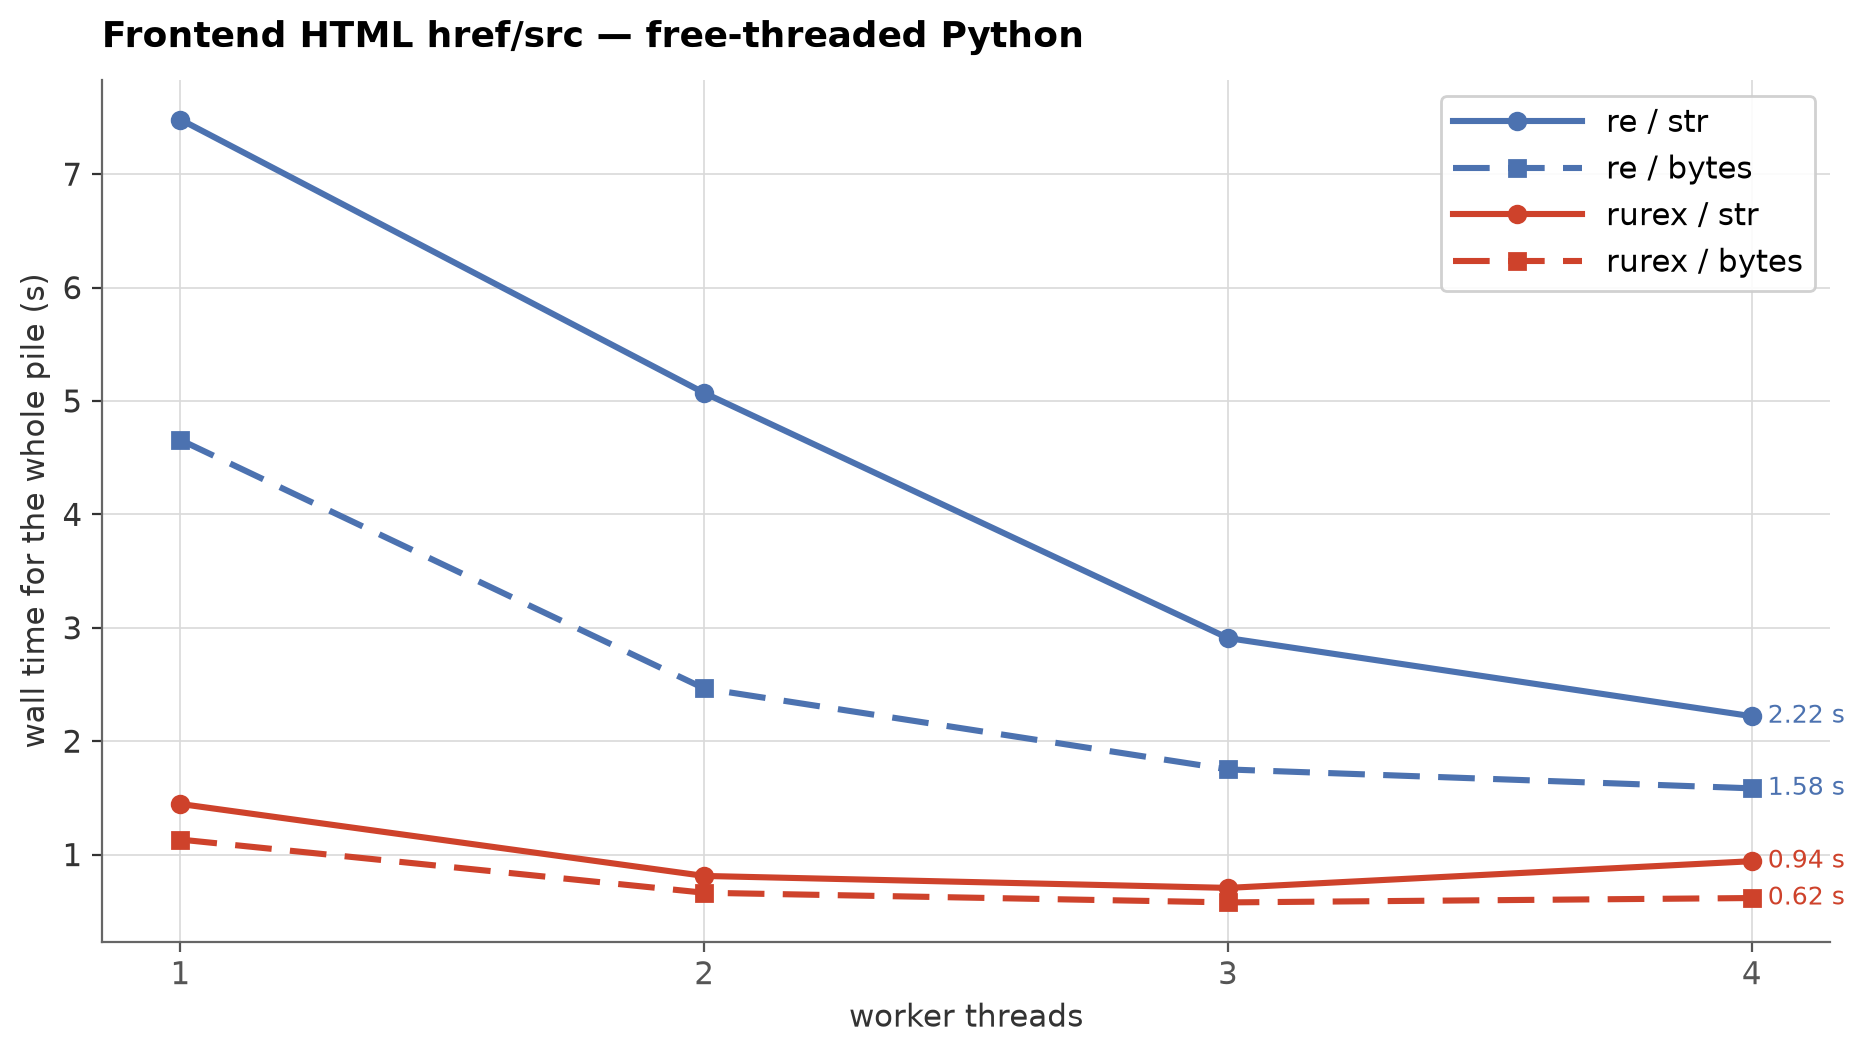
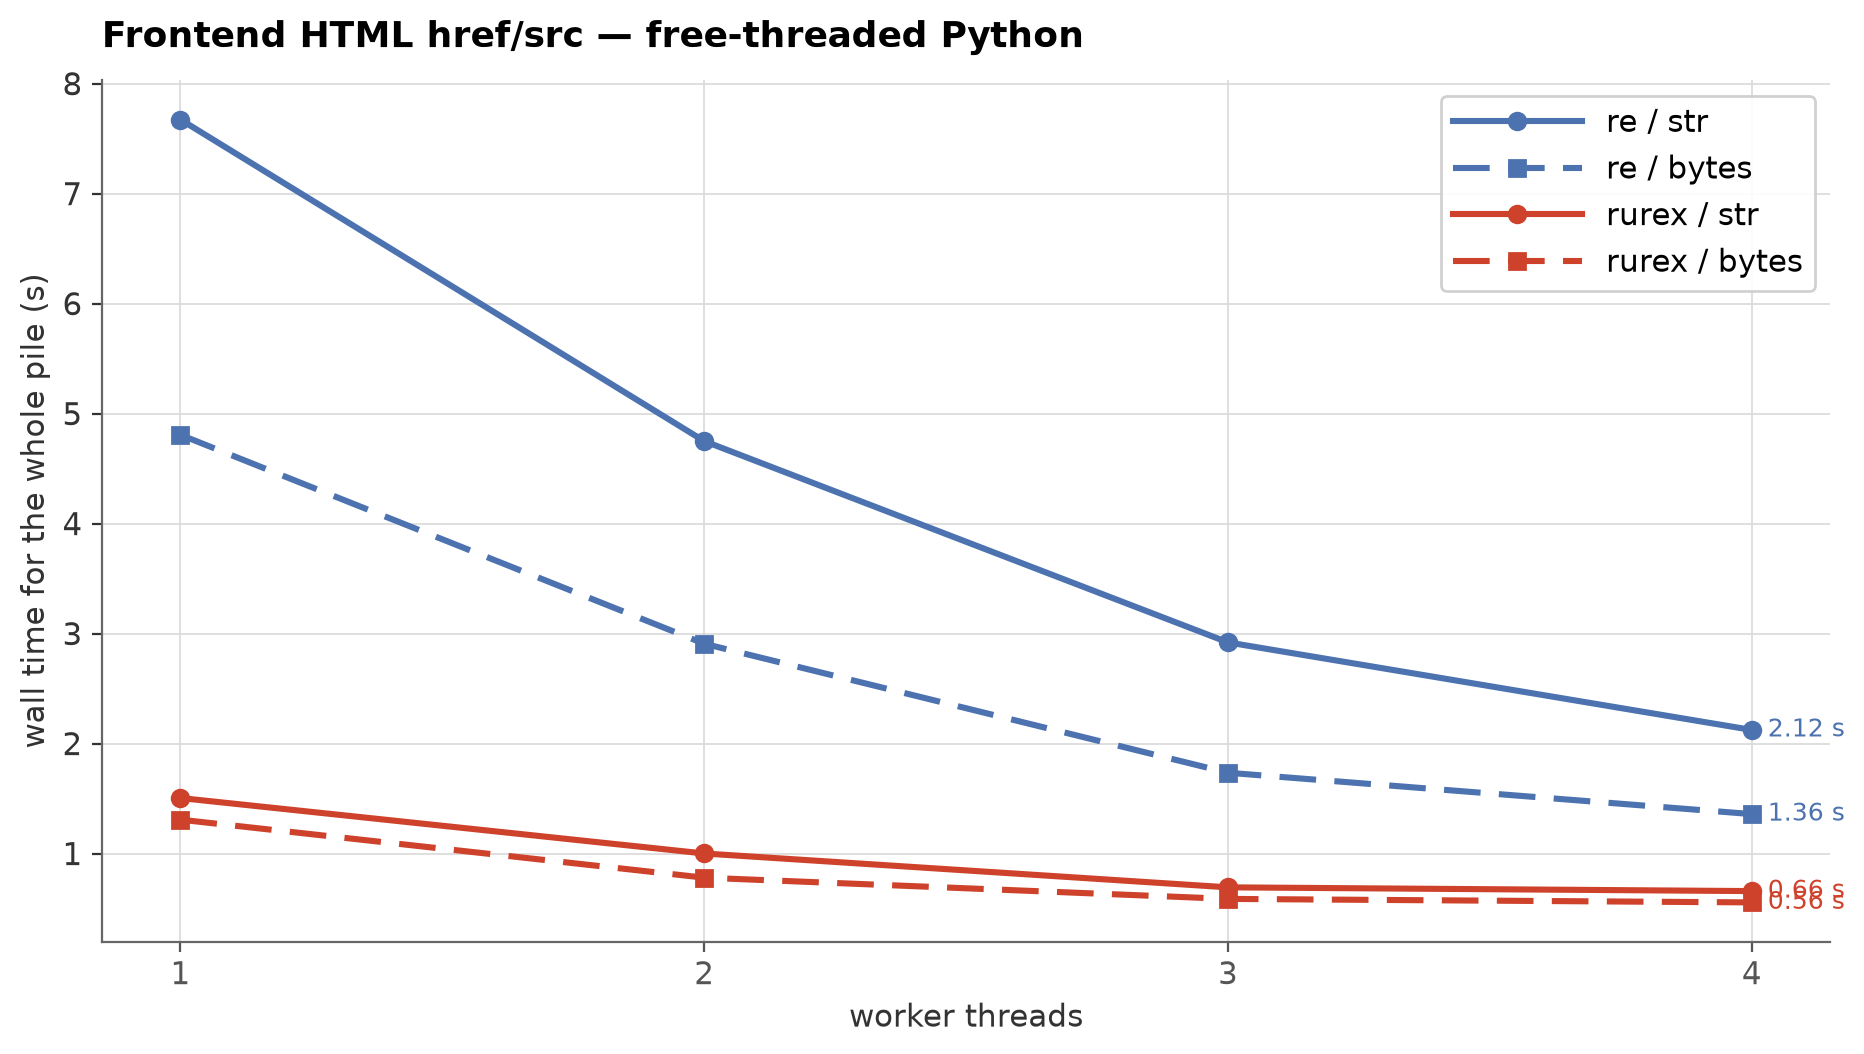
perf: release the GIL around large cold transcodes
For source buffers of at least 32 KB, transcode_maybe_detached releases the GIL around the existing UCS-to-UTF-8 encoder, so long-document str scans can overlap the encode across threads. The Bound string keeps the UCS buffer alive across the detach and str is immutable; the pointer crosses as a usize because raw pointers are not Ungil. Short strings stay GIL-held, so Telegram is unchanged.

Controlled four-thread homepage microbenchmark: 0.248 s to 0.235 s (about 5%). Full homepage GIL four-worker str: 0.805 s to 0.743 s. Adds ADR-0014 and updates the architecture docs, benchmark page, README, and prior future-task markers.

diff --git a/src/utf8.rs b/src/utf8.rs
@@ -428,7 +428,12 @@ pub(crate) fn utf8_of_filtered<'py>(
                         return Ok(Utf8Buf::NoMatch);
                     }
                 }
-                return Ok(Utf8Buf::Owned(unsafe { transcode(kind, len, data)? }));
+                return Ok(Utf8Buf::Owned(transcode_maybe_detached(
+                    bound.py(),
+                    kind,
+                    len,
+                    data,
+                )?));
             }
             Stored::Unknown => {}
         }
@@ -448,6 +453,38 @@ fn surrogate_error() -> PyErr {
         0,
         "surrogates not allowed",
     ))
+}
+
+/// Source size at which the GIL is released around the transcode.
+/// Short strings (the Telegram corpus) stay GIL-held: the handoff costs
+/// more than the encode. Long documents (the homepage corpus) cross
+/// this and let other Python threads run during the encode.
+const TRANSCODE_DETACH_MIN_BYTES: usize = 32 * 1024;
+
+/// Transcode, releasing the GIL first when the source is large enough
+/// to pay for the handoff.
+///
+/// The caller passes the pointer from `inspect` under the validated
+/// layout; `utf8_of_filtered` holds the `Bound` string across the
+/// detach, and `str` is immutable, so the UCS buffer cannot move or be
+/// freed while another Python thread runs.
+fn transcode_maybe_detached(
+    py: Python<'_>,
+    kind: Kind,
+    len: usize,
+    data: *const u8,
+) -> PyResult<Utf8Scratch> {
+    let source_bytes = len
+        * match kind {
+            Kind::Ucs1 => 1,
+            Kind::Ucs2 => 2,
+            Kind::Ucs4 => 4,
+        };
+    if source_bytes < TRANSCODE_DETACH_MIN_BYTES {
+        return unsafe { transcode(kind, len, data) };
+    }
+    let addr = data as usize;
+    py.detach(move || unsafe { transcode(kind, len, addr as *const u8) })
 }
 
 /// Transcode UCS-1/2/4 to UTF-8 in Rust (cache was cold), into a

diff --git a/benchmarks/frontend_html_charts.py b/benchmarks/frontend_html_charts.py
@@ -213,7 +213,9 @@ required-first-byte prefilter still skips pages that cannot contain
 its SIMD prefilters then do the dominant work.
 
 Threads reinforce the difference. These documents are above the 4 KB
-GIL-release threshold, so rurex releases the GIL during the scan:
+GIL-release threshold, so rurex releases the GIL during the scan, and
+source buffers of at least 32 KB also release it around the cold
+transcode itself, so one worker's encode does not block the others:
 `str` drops from {w('gil', 1, 'rurex', 'str'):.2f} to
 {w('gil', 4, 'rurex', 'str'):.2f} s and bytes from
 {w('gil', 1, 'rurex', 'bytes'):.2f} to

diff --git a/spec/report/2026/10/18/report-1792353453-transcode-detach.md b/spec/report/2026/10/18/report-1792353453-transcode-detach.md
@@ -1,0 +1,88 @@
+## Report on task: GIL-released transcode for large strings
+
+Ad-hoc owner request, following the negative phase-1 `findall`
+iterator experiment: plan and implement the transcode-detach task
+first. The goal was the homepage benchmark's GIL multi-thread `str`
+gap, where the cold transcode still ran before the detached scan.
+
+### Done
+
+- Added `transcode_maybe_detached` in `src/utf8.rs`. For source
+  buffers of at least 32 KB it calls `Python::detach` around the
+  existing `transcode`; shorter sources stay GIL-held.
+- The UCS pointer crosses the detach as a `usize` because raw pointers
+  are not `Ungil`. `utf8_of_filtered` holds the `Bound<PyString>` for
+  the whole call, and `str` is immutable, so the buffer cannot move or
+  be freed while another Python thread runs.
+- The transcode still uses the calling thread's `Utf8Scratch` pool;
+  only the GIL is released around it.
+- ADR-0014 records the threshold, safety argument, and rejected
+  alternatives. `architecture.md`, `index.md`, the homepage benchmark
+  prose, and the README performance text were updated.
+- The two older reports that listed the detach as an open future task
+  are marked acted.
+
+### Measurements
+
+Controlled four-thread microbenchmark on a 64 MiB homepage subset,
+five repetitions per point, baseline extension built from `HEAD` in a
+separate worktree:
+
+| case | baseline | detach | change |
+|---|---:|---:|---:|
+| GIL 1 str | 0.5242 s | 0.5200 s | about 1% faster |
+| GIL 4 str | 0.2482 s | 0.2352 s | about 5% faster |
+| GIL 4 bytes | 0.2140 s | 0.2127 s | control, noise |
+| free 4 str | 0.2400 s | 0.2421 s | about 1% slower, noise |
+
+Full homepage benchmark, single cold run per point:
+
+| row | before | after |
+|---|---:|---:|
+| GIL 4 str | 0.805 s | 0.743 s |
+| GIL 4 bytes | 0.574 s | 0.588 s |
+| GIL 1 str | 1.389 s | 1.476 s |
+| free 4 str | 0.942 s | 0.658 s |
+
+The full run is noisy: the bytes control moved in the wrong direction,
+and the single-thread row moved against the controlled result. The
+controlled threaded microbenchmark is the reliable evidence for the
+change: the detach helps the GIL four-worker `str` case by about 5%,
+is neutral single-threaded, and does not affect Telegram because its
+posts are far below 32 KB.
+
+### Spec/ADR amendments
+
+- [acted] `spec/docs/adr/0014-gil-released-transcode.md` records the
+  decision and the pointer-across-detach safety argument.
+- [acted] `spec/docs/architecture.md` describes the 32 KB threshold in
+  the text-transcoding section and adds the safety note.
+- [acted] `spec/docs/index.md` catalogues ADR-0014.
+- [acted] `docs/homepage-benchmark.md` and the README now include the
+  detach and the refreshed numbers.
+
+### Future-task notes
+
+- [open] The 32 KB threshold is a flat constant. A width-aware or
+  loaded-system-aware threshold, or a 16/64 KB A/B, may be better.
+- [open] Free-threaded Python already parallelizes the encode;
+  detaching is neutral there within noise. If a future run shows a
+  real regression, gate the detach to GIL builds.
+- [open] AVX-512 and aarch64 NEON transcoder kernels remain from
+  ADR-0012.
+
+### Tooling/process
+
+- **Single-run benchmark points are too noisy for a 5% decision.**
+  The fresh-process A/B showed no clear win and even moved a bytes
+  control row. A controlled multi-repetition thread microbenchmark on
+  a fixed subset separated the signal.
+- Building the baseline extension in a temporary `git worktree` with
+  a separate `CARGO_TARGET_DIR` made the A/B possible without
+  disturbing the working tree; the worktree and target dirs were
+  removed afterwards.
+- The negative phase-1 `find_iter`/`captures_iter` experiment was not
+  committed: controlled single-thread scans were slightly slower, so
+  the kill criterion applied. Its only measurable gain was a few
+  percent on GIL four-worker `str`, which the transcode detach now
+  addresses more directly.

diff --git a/docs/homepage-benchmark.md b/docs/homepage-benchmark.md
@@ -36,18 +36,18 @@ and capture groups are part of the result.
 
 | Workers | `re` str | `re` bytes | rurex str | rurex bytes | rurex/re str | rurex/re bytes |
 |---:|---:|---:|---:|---:|---:|---:|
-| 1 | 8.77 s | 4.31 s | 1.39 s | 1.10 s | ×0.16 | ×0.25 |
-| 2 | 7.63 s | 4.02 s | 0.83 s | 0.70 s | ×0.11 | ×0.17 |
-| 3 | 7.57 s | 4.08 s | 0.71 s | 0.57 s | ×0.09 | ×0.14 |
-| 4 | 7.88 s | 4.37 s | 0.81 s | 0.57 s | ×0.10 | ×0.13 |
+| 1 | 8.26 s | 4.41 s | 1.48 s | 1.14 s | ×0.18 | ×0.26 |
+| 2 | 8.05 s | 4.19 s | 0.87 s | 0.74 s | ×0.11 | ×0.18 |
+| 3 | 7.97 s | 4.21 s | 0.75 s | 0.61 s | ×0.09 | ×0.14 |
+| 4 | 8.01 s | 4.24 s | 0.74 s | 0.59 s | ×0.09 | ×0.14 |
 
 *(ratio < 1 = rurex faster)*
 
 Single-threaded, rurex answers the parsed-`str` form in
-1.39 s against `re`'s
-8.77 s (×0.16), and the
-bytes form in 1.10 s against
-4.31 s (×0.25).
+1.48 s against `re`'s
+8.26 s (×0.18), and the
+bytes form in 1.14 s against
+4.41 s (×0.26).
 
 The `str` result is the opposite of the short-post Telegram regime.
 Documents here have a median of 117 KB, so the cold
@@ -57,13 +57,15 @@ required-first-byte prefilter still skips pages that cannot contain
 its SIMD prefilters then do the dominant work.
 
 Threads reinforce the difference. These documents are above the 4 KB
-GIL-release threshold, so rurex releases the GIL during the scan:
-`str` drops from 1.39 to
-0.81 s and bytes from
-1.10 to
-0.57 s at four workers. `re` stays flat
-on `str` (8.77 to
-7.88 s) because it never releases the GIL
+GIL-release threshold, so rurex releases the GIL during the scan, and
+source buffers of at least 32 KB also release it around the cold
+transcode itself, so one worker's encode does not block the others:
+`str` drops from 1.48 to
+0.74 s and bytes from
+1.14 to
+0.59 s at four workers. `re` stays flat
+on `str` (8.26 to
+8.01 s) because it never releases the GIL
 during matching.
 
 ## Free-threaded Python
@@ -72,21 +74,21 @@ during matching.
 
 | Workers | `re` str | `re` bytes | rurex str | rurex bytes | rurex/re str | rurex/re bytes |
 |---:|---:|---:|---:|---:|---:|---:|
-| 1 | 7.48 s | 4.66 s | 1.45 s | 1.13 s | ×0.19 | ×0.24 |
-| 2 | 5.07 s | 2.46 s | 0.81 s | 0.66 s | ×0.16 | ×0.27 |
-| 3 | 2.91 s | 1.75 s | 0.71 s | 0.58 s | ×0.24 | ×0.33 |
-| 4 | 2.22 s | 1.58 s | 0.94 s | 0.62 s | ×0.42 | ×0.39 |
+| 1 | 7.67 s | 4.81 s | 1.50 s | 1.31 s | ×0.20 | ×0.27 |
+| 2 | 4.75 s | 2.91 s | 1.00 s | 0.78 s | ×0.21 | ×0.27 |
+| 3 | 2.92 s | 1.73 s | 0.69 s | 0.59 s | ×0.24 | ×0.34 |
+| 4 | 2.12 s | 1.36 s | 0.66 s | 0.56 s | ×0.31 | ×0.41 |
 
 *(ratio < 1 = rurex faster)*
 
 Without the GIL both engines scale. rurex goes from
-1.45 to
-0.94 s on `str` and from
-1.13 to
-0.62 s on bytes; `re` goes from
-7.48 to 2.22 s
-on `str` and from 4.66 to
-1.58 s on bytes. rurex keeps the lead at
+1.50 to
+0.66 s on `str` and from
+1.31 to
+0.56 s on bytes; `re` goes from
+7.67 to 2.12 s
+on `str` and from 4.81 to
+1.36 s on bytes. rurex keeps the lead at
 every thread count. The `str` and bytes rows are close for rurex
 because the transcode is a small part of a long-document pass.
 

diff --git a/spec/docs/adr/0014-gil-released-transcode.md b/spec/docs/adr/0014-gil-released-transcode.md
@@ -1,0 +1,64 @@
+# GIL-released transcode for large strings
+
+Date: 2026-10-18
+Status: accepted
+
+## Context
+
+The engine scans UTF-8, so a cold non-ASCII `str` must be transcoded
+before matching. ADR-0012 made that transcode fast, and ADR-0013 skips
+it when the required first byte is absent. The remaining `str` cost on
+the homepage benchmark is the transcode itself: at four GIL workers,
+`str` was 0.81 s against 0.57 s for bytes because the transcode ran
+GIL-held before `maybe_detach` released the lock for the scan.
+
+The documents are long (median 117 KB), so the handoff cost is small
+relative to the encode. Short strings are the opposite: the Telegram
+corpus has a median of about 426 code units, where a handoff costs more
+than the transcode.
+
+## Decision
+
+1. **Release the GIL around the transcode when the source is at least
+   32 KB.** `transcode_maybe_detached` in `src/utf8.rs` compares the
+   source byte size (`len * width`) with the threshold, then calls
+   `py.detach` around the existing `transcode` function. Shorter
+   sources keep the GIL.
+2. **The 32 KB threshold is measured, not derived.** It is above the
+   GIL-release threshold for the scan because the transcode is shorter
+   than a full scan; a smaller threshold would penalize medium strings.
+3. **The pointer remains valid across the detach.** `utf8_of_filtered`
+   holds the `Bound<PyString>` for the whole call, `str` is immutable,
+   and the UCS buffer therefore cannot move or be freed while another
+   Python thread runs. The raw pointer is carried as a `usize` into the
+   detached closure because raw pointers are not `Ungil`.
+4. **The scratch-pool contract is unchanged.** The transcode still runs
+   on the calling OS thread and writes into the same per-thread
+   `Utf8Scratch` pool; only the GIL is released around it.
+
+## Consequences
+
+- Homepage GIL four workers: `str` moved from 0.81 s to 0.74 s in the
+  full benchmark run; a controlled four-thread microbenchmark on a
+  64 MiB subset moved from 0.248 s to 0.235 s (about 5%).
+- Single-threaded runs are neutral, within measurement noise.
+- Telegram is unchanged: its posts are far below 32 KB and take the
+  GIL-held branch.
+- Free-threaded Python already runs the encode in parallel; detaching
+  is neutral there, within noise.
+- The unsafe surface is unchanged in kind: the transcode already read
+  the UCS buffer under the validated layout, and the `Bound` keeps it
+  alive across the detach.
+
+## Alternatives rejected
+
+- **Always detach:** adds a handoff to every short-string transcode,
+  exactly the regime where the handoff dominates.
+- **Never detach:** leaves the cold `str` transcode serialized under
+  the GIL on long documents, which is the measured gap this change
+  addresses.
+- **Detach the scan only:** already the behavior; it does not help
+  because the transcode runs before the scan.
+- **Per-thread transcode workers:** a thread pool for a one-shot encode
+  adds scheduling and ownership complexity without helping a single
+  document.

diff --git a/spec/docs/architecture.md b/spec/docs/architecture.md
@@ -76,8 +76,9 @@ is the only expected failure at the boundary and always maps to
 
 `unsafe` is confined to the `str` haystack fast path (`src/utf8.rs`,
 `src/utf8/simd.rs`, and the UCS scan in `src/prefilter.rs`), authorized
-by [adr/0012-simd-transcoder-and-detected-layout.md](adr/0012-simd-transcoder-and-detected-layout.md)
-and [adr/0013-cold-str-required-prefix-prefilter.md](adr/0013-cold-str-required-prefix-prefilter.md).
+by [adr/0012-simd-transcoder-and-detected-layout.md](adr/0012-simd-transcoder-and-detected-layout.md),
+[adr/0013-cold-str-required-prefix-prefilter.md](adr/0013-cold-str-required-prefix-prefilter.md),
+and [adr/0014-gil-released-transcode.md](adr/0014-gil-released-transcode.md).
 Everything else relies on PyO3 and `regex` handling their own
 internals. Wrapper types own their data; nothing borrowed from Python
 outlives a call except through PyO3's checked lifetimes.
@@ -104,7 +105,10 @@ UTF-8, so a `str` haystack must be viewed as UTF-8, in three ways
    required first byte (below); only if that byte occurs is it
    transcoded into an owned buffer, by the AVX2 kernel where available
    (x86_64 with AVX2+BMI2, 1.4–3.8 GB/s) and by a scalar loop
-   everywhere else (~0.48 GB/s).
+   everywhere else (~0.48 GB/s). For a source of at least 32 KB the
+   GIL is released around the transcode, so other Python threads can
+   run during the encode; shorter sources stay GIL-held because the
+   handoff would cost more than the encode (ADR-0014).
 
 The prefilter is derived once at compile time from `regex-syntax`'s
 prefix-literal extractor: when every possible match starts with one of
@@ -113,6 +117,12 @@ UCS storage (with unit-alignment checks for UCS-2/UCS-4). Its absence
 means no match can exist, so the query returns its no-match answer
 without transcoding. The prefilter is only consulted on the cold path;
 see [adr/0013-cold-str-required-prefix-prefilter.md](adr/0013-cold-str-required-prefix-prefilter.md).
+
+The detach is safe because `utf8_of_filtered` holds the
+`Bound<PyString>` for the whole call and `str` is immutable: the UCS
+buffer cannot move or be freed while another Python thread runs. The
+raw pointer crosses the detach as a `usize` because raw pointers are
+not `Ungil`; the scratch still comes from the calling thread's pool.
 
 The transcoded buffer lives for the duration of the call (`HayKeep`),
 so re-scans of a string only rurex touched re-transcode each time —

diff --git a/spec/report/2026/10/17/report-1792281301-simd-transcoder.md b/spec/report/2026/10/17/report-1792281301-simd-transcoder.md
@@ -99,11 +99,13 @@ detached scan region for this change.
   AVX2+BMI2 only; other architectures keep the scalar encoder
   (~0.48 GB/s). Same table design ports to NEON; AVX-512 would mainly
   help the general compaction path.
-- [open] For ≥ 4 KB haystacks the transcode still runs GIL-held before
+- [acted] For ≥ 4 KB haystacks the transcode still runs GIL-held before
   the detached scan. Folding it into the detached closure would let
   large-text pipelines encode in parallel; deferred deliberately
   (owner decision) because the SIMD kernel already shrank the
   GIL-held burst 3–8×.
+  [acted — implemented in report-1792353453-transcode-detach via a
+  measured 32 KB source threshold.]
 - [acted] `docs/telegram-benchmark.md` prose is hand-maintained
   inside `benchmarks/telegram_charts.py` while only the tables are
   computed, so a re-run silently leaves stale narrative — now every

diff --git a/README.md b/README.md
@@ -110,9 +110,10 @@ CPython's UTF-8 cache when another C-API consumer already filled it.
   binding gives.
 - **Long documents**: the transcode amortizes, so rurex leads on both
   forms. On 1,127 real frontend HTML pages (256 MiB subset), GIL
-  single-threaded: 1.39 s vs `re`'s 8.77 s on `str`, 1.10 s vs
-  4.31 s on bytes. Those documents are above the 4 KB GIL-release
-  threshold, so rurex also scales with worker threads.
+  single-threaded: 1.48 s vs `re`'s 8.26 s on `str`, 1.14 s vs
+  4.41 s on bytes. Those documents are above the 4 KB GIL-release
+  threshold, so rurex also scales with worker threads, and large
+  transcodes release the GIL themselves.
 
 Details and thread-scaling numbers:
 [docs/telegram-benchmark.md](docs/telegram-benchmark.md) and

diff --git a/spec/docs/index.md b/spec/docs/index.md
@@ -62,6 +62,9 @@ Catalog of the documents under `spec/docs/`. Recommended reading order:
 - [adr/0013-cold-str-required-prefix-prefilter.md](adr/0013-cold-str-required-prefix-prefilter.md) —
   compile-time required-first-byte prefilter over the UCS storage skips
   the cold transcode when no match is possible.
+- [adr/0014-gil-released-transcode.md](adr/0014-gil-released-transcode.md) —
+  releases the GIL around the cold transcode for source buffers of at
+  least 32 KB, so long-document encodes overlap across threads.
 
 Workflow files (task/report/ADR lifecycle, session workflow) live in
 `spec/skills/`.

diff --git a/spec/report/2026/10/17/report-1792291971-tier1-kernel-speedup.md b/spec/report/2026/10/17/report-1792291971-tier1-kernel-speedup.md
@@ -116,8 +116,11 @@ pay for it.
   comparable run to run.
 - [open] AVX-512 and aarch64 NEON kernels (other architectures keep
   the scalar encoder, unchanged).
-- [open] Fold the transcode into the detached-GIL region for ≥ 4 KB
+- [acted] Fold the transcode into the detached-GIL region for ≥ 4 KB
   haystacks (parallel encode for big-text pipelines).
+  [acted — shipped with a 32 KB source threshold in
+  report-1792353453-transcode-detach; homepage GIL 4-worker str
+  0.81 s → 0.74 s.]
 
 ### Tooling/process
 
